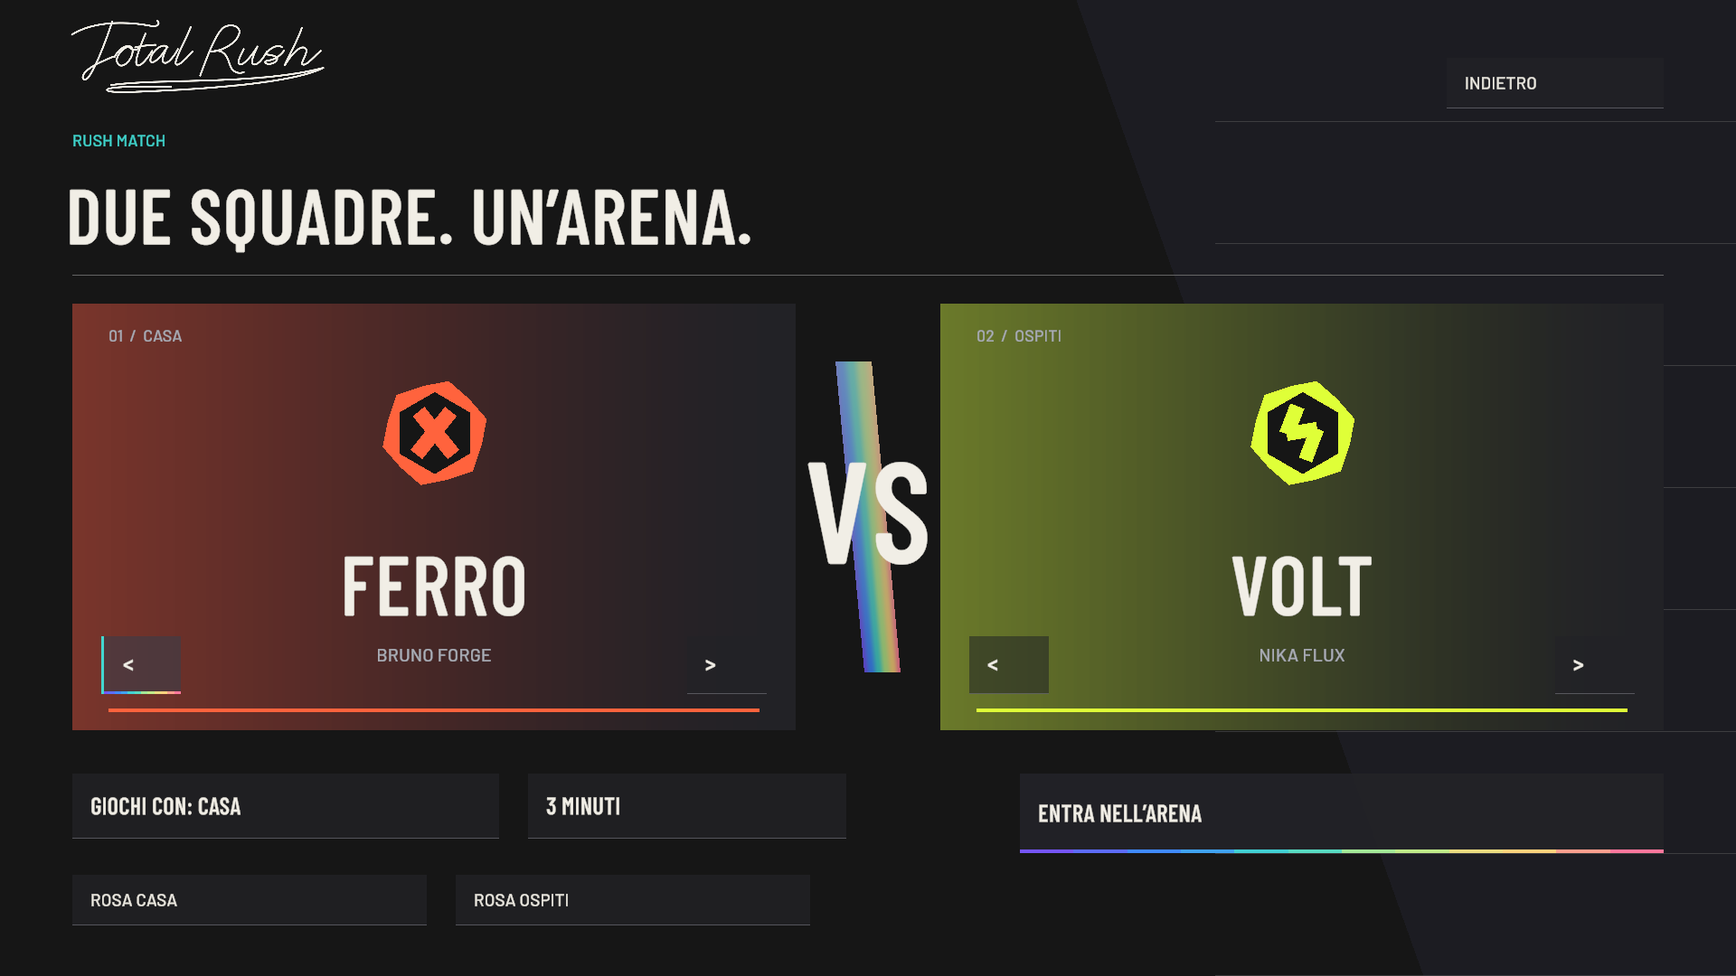
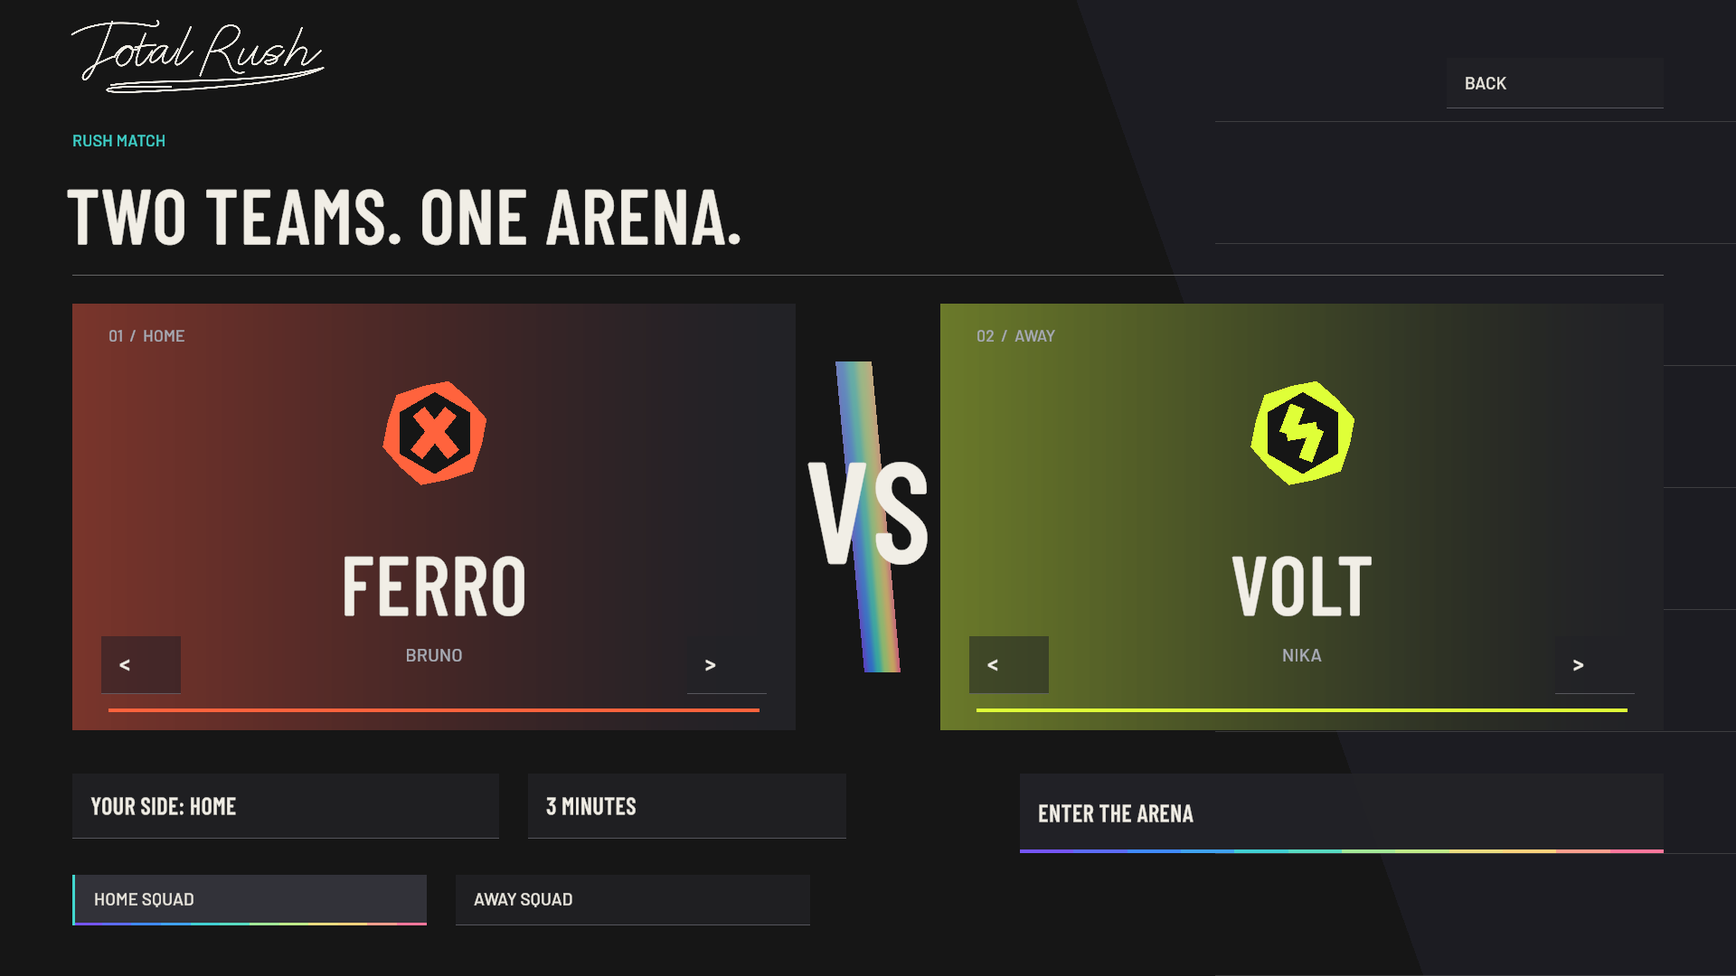
Total Rush 0.2.0: Ink / Thunder, mixed roster and personal soundtrack

diff --git a/README.md b/README.md
@@ -1,103 +1,103 @@
+<p align="center"><img src="docs/assets/total-rush-signature.svg" alt="Total Rush — Play Loud" width="780"></p>
+<p align="center"><img src="docs/assets/total-rush-icon.png" alt="Total Rush app icon" width="112"></p>
+<p align="center"><strong>Arcade football. Original teams. Play loud.</strong></p>
+<p align="center">macOS Apple Silicon · Windows x64 · Version 0.2.0</p>
 <p align="center">
-  <img src="docs/assets/total-rush-signature.svg" alt="Total Rush — Play Loud" width="780">
+  <a href="https://github.com/YooTommy-CH/total-rush/releases/latest"><strong>DOWNLOAD TOTAL RUSH</strong></a>
+  &nbsp; · &nbsp; <a href="INSTALLATION.md">Installation and updates</a>
+  &nbsp; · &nbsp; <a href="CHANGELOG.md">What's new</a>
 </p>
 
-<p align="center"><img src="docs/assets/total-rush-icon.png" alt="Icona Total Rush" width="112"></p>
+![The Total Rush menu, captured in the English game](docs/assets/menu.png)
 
-<p align="center"><strong>Calcio arcade. Squadre originali. Nessun freno.</strong></p>
-<p align="center">macOS Apple Silicon · Windows x64 · Versione 0.1.3</p>
+## Ink / Thunder — 0.2.0
 
-<p align="center">
-  <a href="https://github.com/YooTommy-CH/total-rush/releases/latest"><strong>SCARICA TOTAL RUSH</strong></a>
-  &nbsp; · &nbsp;
-  <a href="INSTALLAZIONE.md">Installazione e aggiornamenti</a>
-  &nbsp; · &nbsp;
-  <a href="CHANGELOG.md">Novità</a>
-</p>
+Forty original human, animal and fantasy athletes, with distinctive proportions, faces, sportswear and inked portraits. Articulated hands, three detail levels per model and original team animation sets. Compact portraits sit next to player names; diagonal comic panels and branching lightning celebrate a perfect shot.
 
-![Il menu di Total Rush, con la firma originale e un capitano 3D](docs/assets/menu.png)
+Kickoff requires a pass, including backward passes. When an AI teammate recovers the ball, control switches to them automatically. Improved dribbling, running loops, signature intro and a short goal sound. Substitutions have been removed.
 
-## Arena Creatures — 0.1.3
+**English is the default language**, including on the first launch. Italian remains available in **Settings → Interface → Language**. Apply and save to keep your preference.
 
-Un cast animale e fantastico, con proporzioni e silhouette diverse fra squadre. Nuove animazioni originali per locomozione, tiri, passaggi, contrasti, Rush Strike ed esultanze. Il rig mantiene collegate braccia e mani durante le azioni. I portieri hanno modelli e pose di parata dedicati. Il pallone Vector Core sostituisce il modello precedente con pannelli originali e accenti di energia.
+![English interface settings and language selection](docs/assets/settings.png)
 
-![Le famiglie di creature di Total Rush](docs/assets/creatures.png)
+![The mixed Total Rush roster, captured in the game](docs/assets/creatures.png)
+![The forty original illustrated player portraits](docs/assets/portraits.png)
 
-## Prismatic Rush — 0.1.2
+## Enter the arena
 
-Una nuova identità visiva: carta chiara, antracite e luce prismatica. Menu con capitano 3D integrato, selezione delle squadre contrapposte, impostazioni ridisegnate e transizioni direzionali. Il nuovo tabellone mantiene punteggio e timer in colonne stabili; energia, potenza, radar e risultati condividono la stessa geometria. Otto sponsor immaginari originali animano i cartelloni dell’arena.
+Four rushers and one goalkeeper per side. Pass, sprint, tackle and use the walls to build an attack. Shoulder charges push opponents away; consecutive passes charge the ball's energy. Choose a three-, five- or seven-minute Rush Match.
 
-![La nuova selezione delle squadre](docs/assets/teams.png)
+Eight original teams, each with its own captain, colours and emblem: **Ferro, Volt, Marea, Cenere, Prisma, Brina, Rift and Selva**. The roster mixes humans with rhinoceroses, fennec foxes, axolotls, volcanic boars, crystalline moths, snowy owls, cyclopean creatures and lynxes. Each team has four outfield variants and a dedicated goalkeeper. No referees or coaches.
 
-## Entra nell’arena
+![Choose your teams and side](docs/assets/teams.png)
 
-Quattro rusher e un portiere per squadra. Passa, scatta, colpisci e usa le sponde per costruire l’azione. Le spallate spostano gli avversari; i passaggi consecutivi caricano il pallone. In Rush Match scegli tre, cinque o sette minuti.
+## Thunder Shot
 
-Otto squadre originali, ognuna con capitano, colori e simbolo propri: **Ferro, Volt, Marea, Cenere, Prisma, Brina, Rift e Selva**. Quaranta creature originali create in Blender: rinoceronti, fennec, axolotl, cinghiali vulcanici, falene cristalline, gufi delle nevi, creature ciclopiche e linci. Ogni squadra ha quattro varianti da campo e un portiere dedicato, con rig articolato e tre livelli di dettaglio. Arbitri e allenatori assenti.
+1. Press and release the shoot button.
+2. Tap it again quickly to open the curved timing meter. Gameplay slows to 0.80×.
+3. Tap a third time to stop the cursor, which keeps moving in real time.
 
-## Green-Check
+| Result | Goal chance |
+| --- | ---: |
+| Gray | 1% |
+| Yellow | 30% |
+| Orange | 60% |
+| Red | 100% |
 
-**Un tiro. Tre tocchi. Un momento da prendere.**
+The red window occupies just 1.2% of the arc. Hit it for **PERFECT!**, an animated comic cut-in and a branching lightning trail. The perfect shot flies at a nominal 92 m/s, compared with 34 for other successful Thunder Shots, along a flatter trajectory. No confirmation resolves to gray. Failed attempts become ordinary short physical shots.
 
-1. Premi e rilascia il tasto del tiro.
-2. Premilo di nuovo rapidamente per aprire lo skill check: l’arena va in slow motion.
-3. Premi la terza volta quando il cursore attraversa il verde.
+Thunder Shot and Rush Strike are separate: Rush Strike uses full ball energy and a charged power shot, and remains a physical, saveable strike.
 
-Il cursore resta in tempo reale. Il tempismo perfetto scatena un tiro elettrico e infuocato che segna da qualsiasi posizione; sbagliando, parte un tiro senza bonus. È una meccanica arcade, distinta dai tiri normali.
+![A PERFECT! comic cut-in](docs/assets/green-check.png)
 
-![Il Green-Check in azione](docs/assets/green-check.png)
+## Ways to play
 
-## Modi di giocare
-
-| Modalità | Cosa trovi |
+| Mode | What to expect |
 | --- | --- |
-| **Rush Match** | Scegli le due squadre, il lato e la durata. |
-| **Rush Cup** | Gironi e fase a eliminazione. |
-| **Iron Knockout** | Conquista il torneo a eliminazione diretta. |
-| **Il Circuito** | Una stagione fra le otto squadre originali. |
-| **Allenamento** | Campo libero, partitella, rigori e punizioni. |
+| Rush Match | Choose two teams, your side and match length. |
+| Rush Cup | Group stage followed by knockouts. |
+| Iron Knockout | A straight knockout tournament. |
+| The Circuit | A season with the eight original teams. |
+| Training | Free training, practice matches, penalties and free kicks. |
+| Player career | Create your rusher and develop your player. |
 
-![Il nuovo cast nell’arena di Total Rush](docs/assets/arena.png)
+![The English match HUD in Total Rush](docs/assets/arena.png)
 
-## Comandi essenziali
+## Essential controls
 
-| Azione | Tastiera | Xbox | PlayStation |
+| Action | Keyboard | Xbox | PlayStation |
 | --- | --- | --- | --- |
-| Muoviti | WASD / frecce | Stick sinistro | Stick sinistro |
+| Move | WASD / arrow keys | Left stick | Left stick |
 | Sprint | Shift | RT | R2 |
-| Passa | J | A | Croce |
-| Tira | Tieni e rilascia K | Tieni e rilascia B | Tieni e rilascia Cerchio |
-| Green-Check | K ×3, terzo sul verde | B ×3, terzo sul verde | Cerchio ×3, terzo sul verde |
-| Passaggio alto | L | X | Quadrato |
-| Spallata | Spazio | Y | Triangolo |
-| Cambia rusher | Tab | LB / stick destro | L1 / stick destro |
-| Scivolata | V | Premi stick destro | Premi R3 |
-| Pausa | Esc | Menu | Options |
+| Pass | J | A | Cross |
+| Shoot | Hold and release K | Hold and release B | Hold and release Circle |
+| Thunder Shot | K ×3 | B ×3 | Circle ×3 |
+| Lob pass | L | X | Square |
+| Shoulder charge | Space | Y | Triangle |
+| Switch rusher | Tab | LB / right stick | L1 / right stick |
+| Slide tackle | V | Press right stick | Press R3 |
+| Pause | Esc | Menu | Options |
 
-Tiri a giro, potenti, rasoterra e trivela: modificatori nella schermata **Impostazioni → Gioco → Comandi**.
+Finesse, power, low and trivela shots: see **Settings → Gameplay → Controls** for modifiers.
 
-## Download e aggiornamenti
+## Download and updates
 
-Scarica **[Total Rush 0.1.3](https://github.com/YooTommy-CH/total-rush/releases/tag/v0.1.3)** per macOS Apple Silicon o Windows x64. La build macOS è firmata con Developer ID e notarizzata da Apple. Su Mac è disponibile anche un **DMG personalizzato**, con installazione trascinando l’app in Applicazioni. App ed eseguibile si chiamano ora **Total Rush.app** e **Total Rush.exe**.
+Download **[Total Rush 0.2.0](https://github.com/YooTommy-CH/total-rush/releases/tag/v0.2.0)** for macOS Apple Silicon or Windows x64. The macOS app and custom DMG are Developer ID signed and Apple notarized. Drag **Total Rush** to **Applications** to install. The executable names are **Total Rush.app** and **Total Rush.exe**.
 
-**Passaggio dalla 0.1.0:** scarica e installa manualmente questa versione una volta, perché sono cambiati i nomi dei pacchetti. Dalla 0.1.1 il gioco controlla gli aggiornamenti all’apertura: **Aggiorna ora** scarica e verifica il pacchetto, chiude l’app, installa e riapre il gioco. La libreria personale e i salvataggi restano nel profilo del dispositivo. La soundtrack personale, le copertine e il codice sorgente non sono distribuiti in questo repository.
+If upgrading from 0.1.0, install the current version manually once because the package names changed. Versions from 0.1.1 onward check for updates on launch. **Update now** downloads and verifies the package, closes the game, installs the update and reopens it. Your local saves and music library are preserved.
 
-## La tua Rush Radio
+## Your Rush Radio
 
-Nessuna soundtrack inclusa. Seleziona **Soundtrack → Scegli cartella** e collega la tua raccolta:
+No soundtrack is bundled. On the **Soundtrack** page, select your MP3 folder and artwork folder separately. They can be anywhere on your device.
 
-```
-Total Rush Soundtrack/
-    Canzoni/Brano - Artista.mp3
-    Copertine/Artista - Brano.png
-```
+Artwork names must match tracks exactly, excluding the extension: `Title - Artist.mp3` → `Title - Artist.png`. If they differ, select **Artwork** beside the track and assign an image manually. Manual assignments are saved. Tracks without artwork still play with a generic image.
 
-Abbinamento anche per ordine delle parole, maiuscole, accenti e piccole differenze. Le corrispondenze ambigue mantengono la copertina generica. MP3 senza copertina restano riproducibili. I file rimangono sul dispositivo, funzionano offline e usano la dissolvenza fra brani. **Rileggi** aggiorna l’elenco; **Scollega** conserva i tuoi file.
+Playback works offline with crossfades between tracks. **Rescan** refreshes the library; disconnecting leaves your files intact. Personal music, artwork and the game's source code are not distributed in this repository.
 
-## Stato della versione
+## Release verification
 
-Anteprima giocabile in sviluppo, realizzata con Unity 6.6 e URP. Le immagini sono catture della build del gioco, senza sfondi generati. Squadre, personaggi, simboli e identità sono originali; nessun personaggio o asset Nintendo incluso.
+A playable game in active development, built with Unity 6.6 and URP. Screenshots show the actual English build. Teams, characters, emblems and visual identity are original; no Nintendo characters or assets are included.
 
-La build macOS è stata eseguita e verificata. La build Windows è compilata e richiede ancora prove su hardware Windows. Il risultato di 60 FPS su M1 di base resta da misurare. Online e multiplayer locale non sono inclusi nella 0.1.3.
+The macOS build has been run and checked. The Windows x64 player is also launched and tested on Windows Server 2022 without rendering; graphics and physical controllers on Windows 10/11 still need PC testing. The 60 FPS target on baseline M1 hardware remains unmeasured. Online and local multiplayer are outside this version.
 
-Attribuzioni e licenze di animazioni, font e dipendenze sono incluse nell’app. Vedi [CREDITI.md](CREDITI.md).
+See [CREDITS.md](CREDITS.md) for resources and licences.

diff --git a/CHANGELOG.md b/CHANGELOG.md
@@ -1,42 +1,47 @@
-# Novità
+# What's new
+
+## Total Rush 0.2.0 — Ink / Thunder
+
+- A mixed roster of forty original human, animal and fantasy athletes, with distinct proportions and faces, articulated hands, three detail levels and team animation sets.
+- Forty inked portraits next to player names and inside special-shot comic panels.
+- Thunder Shot: curved U-shaped meter, 0.80× slowdown, narrow red window, animated PERFECT! cut-in and branching lightning.
+- Gray 1%, yellow 30%, orange 60%, red 100% goal outcomes. Failed attempts remain physical shots.
+- PERFECT flies faster along a flatter trajectory: nominal 92 m/s versus 34 for other successful Thunder Shots, with a stronger contact burst and wider electrical trail.
+- Mandatory kickoff pass, including backward passes. Automatic control when an AI teammate recovers the ball.
+- Improved dribbling, running loops, signature intro and short goal sound. Substitutions removed; given names displayed without surnames.
+- Personal soundtrack from two independent folders, exact-name artwork matching or manual assignment, offline playback and crossfades.
+- English throughout the game and as the first-launch default. Italian remains selectable in Settings → Interface → Language.
+- English repository documentation and new screenshots from the English game.
+
+macOS Apple Silicon ARM64 and Windows x64. The macOS app and DMG are Developer ID signed and Apple notarized. Native Windows startup and simulation are tested on Windows Server 2022 without rendering. Physical Windows 10/11 graphics/controller testing and baseline M1 profiling remain outstanding; no unmeasured FPS result is claimed.
 
 ## Total Rush 0.1.3 — Arena Creatures
 
-- Ritirato il cast umano: otto famiglie animali e fantastiche originali, con quaranta varianti, compresi otto portieri dedicati. Proporzioni corporee diverse per specie.
-- Rig a 52 ossa, dita articolate, espressioni e tre LOD. Corretta la continuità di braccia e avambracci durante le pose.
-- 37 clip originali per famiglia, locomozione, cambi direzione, frenate, passaggi brevi/rapidi/potenti, cinque tiri, contrasti, scivolate, Rush Strike ed esultanze.
-- Portieri con stance, spostamenti, parate e recupero dedicati; autorità delle parate e bilanciamento conservati.
-- Nuovo pallone Vector Core, pannelli originali, normal map e tre LOD. Rotazione legata al Rigidbody, collisione sferica invariata.
-- Accenti Rush Strike differenziati per squadra. Menu, modalità, comandi, salvataggi e musica personale conservati.
-
+- Eight original animal and fantasy families, forty variants and dedicated goalkeeper models, with different species proportions.
+- A 52-bone rig, articulated fingers, expressions and three detail levels. Fixed upper-arm and forearm continuity during poses.
+- Thirty-seven original clips per family: locomotion, turns, braking, passes, five shots, tackles, slides, Rush Strike and celebrations.
+- Dedicated goalkeeper stances, movement, saves and recovery.
+- Original Vector Core ball with three detail levels and Rigidbody-driven rotation.
 
 ## Total Rush 0.1.2 — Prismatic Rush
 
-- Nuova composizione del menu: capitano 3D integrato, titoli grandi, modalità in basso, colori prismatici e superfici chiare/scure. Firma e icona esistenti conservate.
-- Transizioni sovrapposte, selezioni animate, illuminazione del capitano reattiva e suoni di navigazione originali. Opzione movimento ridotto.
-- Selezione CASA/OSPITI contrapposta, stemmi grandi, cambio squadra animato e avvio disabilitato per squadre identiche.
-- Impostazioni ridisegnate, con categorie e righe allineate. Tutte le opzioni video, audio, gioco e interfaccia conservate.
-- Tabellone ricostruito con celle punteggio fisse, timer integrato e reazioni al gol. Nuove targhe giocatori, stamina, potenza, radar, indicatore di controllo ed eventi partita. Risultati ridisegnati.
-- Otto sponsor immaginari con simboli e loghi originali; quattordici cartelloni animati con un solo atlas e materiale condiviso.
-- Layout verificati da 960×540 a 4K, compresi ultrawide e 16:10; 1440p, ultrawide e 4K verificati con rendering fuori schermo alle dimensioni esatte.
-- Gameplay e raccolta musicale personale conservati. DMG macOS personalizzato.
-
+- Redesigned menu with an integrated 3D captain, large headings, a mode deck and prismatic colours.
+- Layered transitions, animated selections, reactive captain lighting and original menu audio. Reduced-motion option.
+- Opposing home/away team selection, large emblems and disabled start for identical teams.
+- Aligned settings categories and rows; redesigned scoreboard, player plates, stamina, power, radar and results.
+- Eight fictional sponsors and fourteen animated boards using one atlas and material.
+- Layout checks from 960×540 through 4K, including ultrawide and 16:10. Larger sizes tested with exact offscreen rendering.
 
 ## Total Rush 0.1.1
 
-- DMG personalizzato solo macOS, con sfondo Retina, firma del gioco e installazione trascinando l’app in Applicazioni.
+- Custom macOS DMG with a Retina background and drag-to-Applications installation.
+- Off-ball and directional player switching, slide tackles, corrected kickoff positions and restarts.
+- Revised analog movement, braking and action poses, with control handed over on ball contact.
+- Renamed applications, executables and packages to Total Rush.
+- Removed the bundled music collection; added personal MP3/artwork imports, offline playback and crossfades.
+- Redesigned signature wordmark, using the [Project Sunshine signature](https://theprojectsunshine.com/it/about/) as a stylistic reference, and a separate prismatic app icon.
+- Removed persistent control hints from the intro, menus, HUD, training and Green-Check. Controls remain available in settings.
 
-- Cambio giocatore senza palla e scelta direzionale con lo stick destro.
-- Scivolate con contatto, stamina, recupero e intervallo fra tentativi.
-- Posizioni del calcio d’inizio corrette e ripartenza a chi subisce il gol.
-- Movimento analogico, frenata e pose di camminata, corsa e tiro riviste; passaggio del controllo al contatto reale.
-- App, eseguibili e pacchetti rinominati Total Rush.
-- Rimossa la raccolta musicale automatica. Importazione della cartella personale Canzoni/Copertine, abbinamento per nome o parole, offline e crossfade.
-- Dalla 0.1.0 è necessario un download manuale una tantum per il cambio dei nomi dei pacchetti.
+## Total Rush 0.1.0
 
-- Firma originale ridisegnata con curve continue, prendendo come riferimento stilistico la [firma del sito Project Sunshine](https://theprojectsunshine.com/it/about/). Icona separata con un simbolo geometrico a spirale, con gradiente prismatico su fondo antracite, per Mac e Windows.
-- Rimossi i suggerimenti persistenti dei tasti da intro, menu, HUD, allenamenti e Green-Check. La pagina Comandi resta nelle impostazioni.
-
-## Total Rush 0.1.0 — prima release
-
-Calcio arcade con otto squadre originali, dodici modelli cartooneschi, arena 5 contro 5, spallate, Green-Check in slow motion, menu animato, firma e icone originali.
+First arcade release with eight original teams, twelve stylized models, enclosed five-a-side arenas, shoulder charges, slow-motion Green-Check, animated menu, original signature and app icons.

diff --git a/INSTALLATION.md b/INSTALLATION.md
@@ -1,0 +1,37 @@
+# Install Total Rush
+
+Download **[Total Rush 0.2.0](https://github.com/YooTommy-CH/total-rush/releases/tag/v0.2.0)**.
+
+## macOS Apple Silicon
+
+1. Download and open `TotalRush-0.2.0-macOS-arm64.dmg`.
+2. In the custom installer window, drag **Total Rush** to **Applications**. Eject the disk after copying.
+3. Open **Total Rush.app** from Applications.
+
+The app is native ARM64, uses Metal, and is Developer ID signed and Apple notarized. Rosetta is not required. The macOS ZIP remains available as an alternative and for automatic updates.
+
+## Windows 10/11 x64
+
+1. Download `TotalRush-Windows-x64.zip` and extract it into a dedicated folder.
+2. Keep the executable, data folder and libraries together.
+3. Open `Total Rush.exe` inside the `Total Rush` folder.
+
+The build uses Direct3D 11 and targets x64. Automated tests on Windows Server 2022 verify native startup and simulation. Graphics and physical controllers on Windows 10/11 still need PC testing.
+
+## Language
+
+The game starts in **English** by default. Choose **Settings → Interface → Language** to select English or Italian, then **Apply and save**. Back discards pending settings changes; restoring defaults selects English again.
+
+## Update from the game
+
+If you are upgrading from **0.1.0**, install the current version manually once: the older packages had different names.
+
+From 0.1.1 onward, the game checks for the latest stable release at startup. Select **Update now**, wait for verification, and let the game close and reopen. **Updates** in the main menu also lets you check manually.
+
+The previous installation is kept for recovery. Rush career saves remain separate from the earlier simulation's saves. Your personal soundtrack library is not replaced.
+
+## Personal soundtrack
+
+No music is bundled. On the **Soundtrack** page, select one folder containing your MP3 files and a separate folder containing PNG/JPG/JPEG artwork. Names must match exactly, excluding the extension. If they differ, choose the track's **Artwork** button and assign an image from the gallery. Manual assignments are saved.
+
+The library works offline and crossfades between tracks. **Rescan** detects changes. Disconnecting does not delete your original files.

diff --git a/CREDITS.md b/CREDITS.md
@@ -1,0 +1,15 @@
+# Credits and resources
+
+**Total Rush:** original stylized characters, rigs, signature wordmark, app icons, team emblems, arena, interface and synthesized sound effects.
+
+**Original fictional sponsors:** Voltverb, Turbochoir, Sixth Sole, Rallyfract, Strideprompt, Tempostitch, Zonefern and Bassbracket. Symbols and wordmarks were designed for Total Rush.
+
+**0.2.0 cast and animation:** forty human, animal and fantasy athletes, articulated rigs, UVs, palette, expressions, three detail levels and 37 clips per team family, authored in Blender. The Vector Core ball and its materials are original. No new Meshy generation or Nintendo animation is included in this version. Earlier experimental characters and animation are retired from the active assets.
+
+**0.2.0 portraits:** forty original inked illustrations generated with the integrated image generation tool, following the cast briefs, then normalized for nameplates and comic cut-ins. No Nintendo artwork was copied.
+
+**Fonts:** Barlow by Jeremy Tribby / Barlow Project; Liberation Sans. SIL Open Font License. Licence texts are included in the game.
+
+**Engine:** Unity 6.6, Universal Render Pipeline, Input System, Cinemachine, uGUI and TextMeshPro, under their respective licences.
+
+Personal music and artwork are not distributed. No Nintendo assets or characters are included. This repository contains compiled game packages and player documentation, without Unity or Blender project sources.
